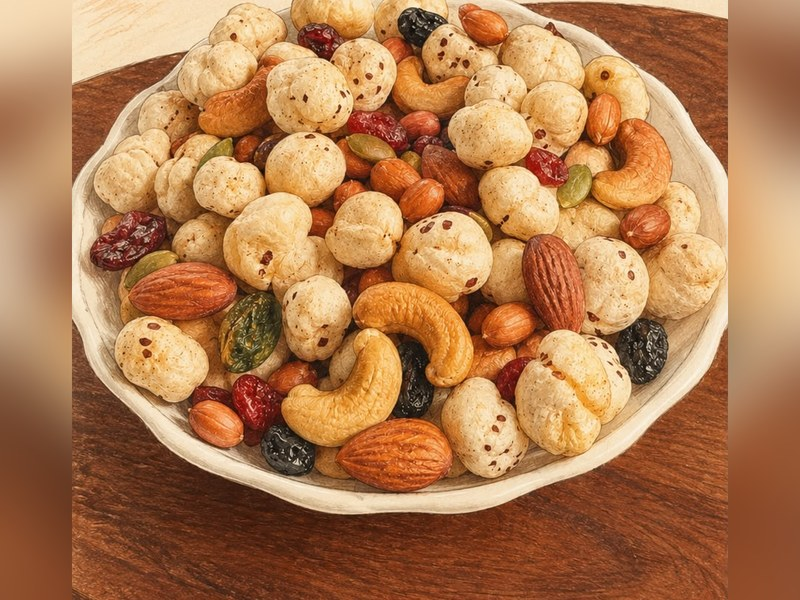
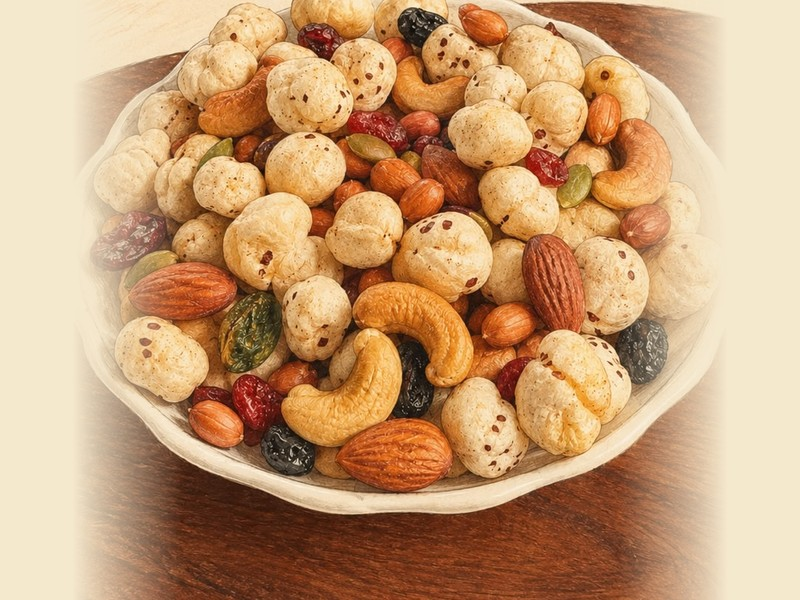
Everyday Snacking tile: cleaner full-bowl composition
Replace the blurred-backdrop fill with soft edges fading into matching
cream, so the whole bowl reads clearly as a product-on-cream shot.

diff --git a/index.html b/index.html
@@ -111,7 +111,7 @@
         </div>
         <div class="pillars__grid">
           <article class="pillar reveal">
-            <div class="pillar__media reveal-img"><img src="assets/snacking-bowl.jpg?v=2" alt="A full bowl of roasted makhana and dry-fruit mix" loading="lazy" /></div>
+            <div class="pillar__media reveal-img"><img src="assets/snacking-bowl.jpg?v=3" alt="A full bowl of roasted makhana and dry-fruit mix" loading="lazy" /></div>
             <h3>Everyday Snacking</h3>
             <p>For work, school and everyday hunger — roasted makhana and mindful mixes to keep close through the day.</p>
           </article>
